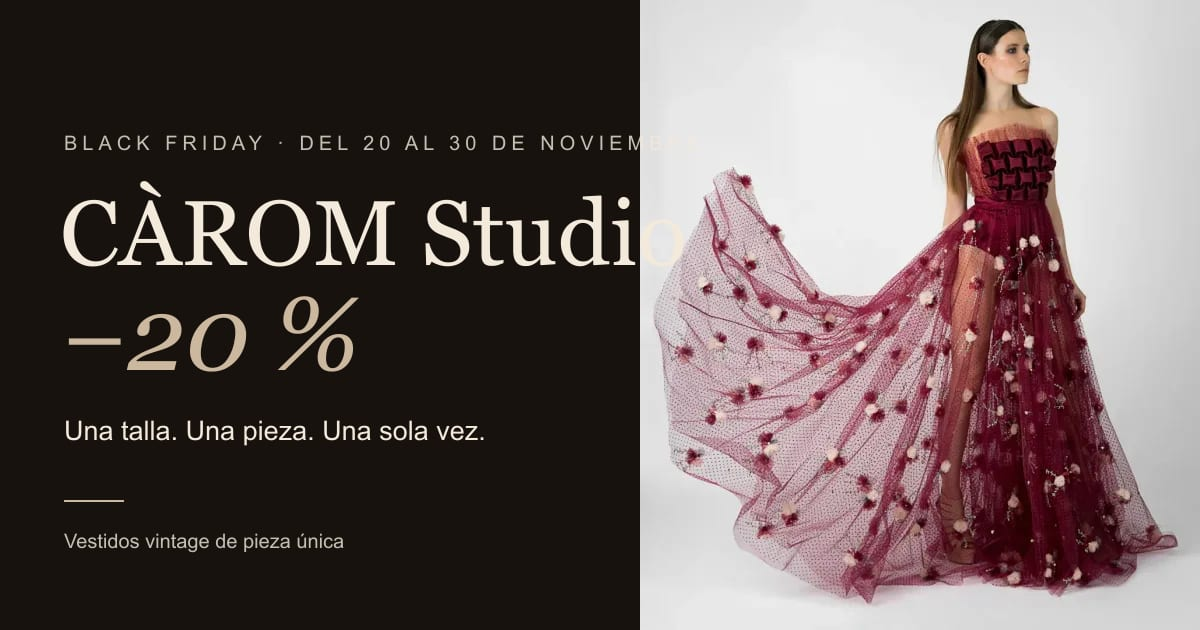
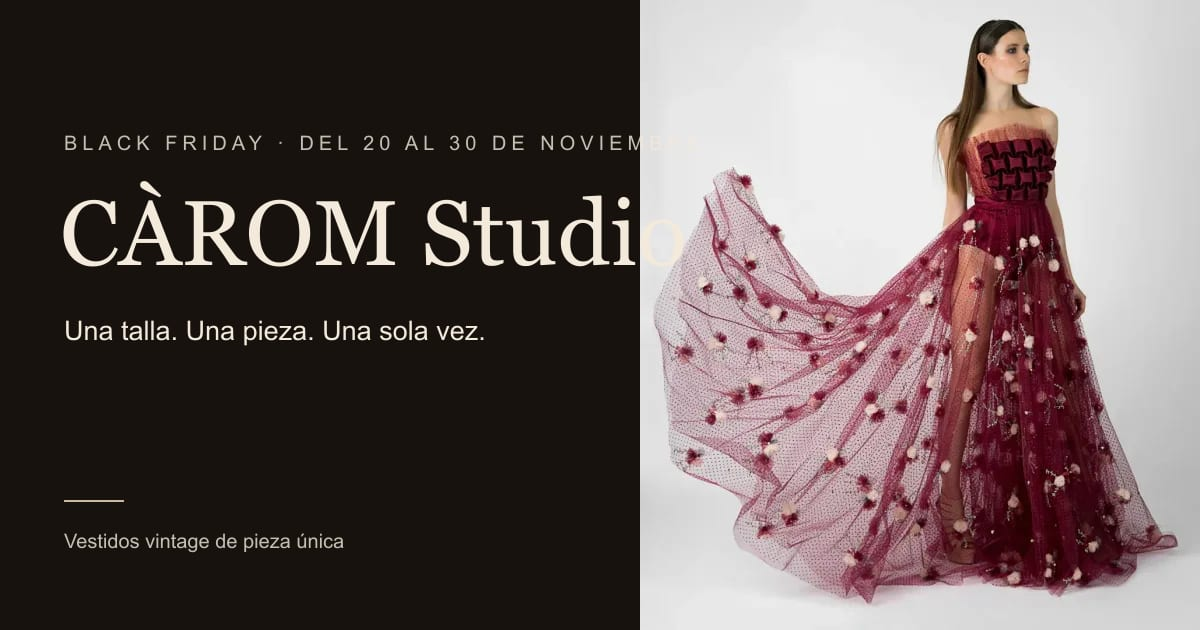
Quita el -20 % hasta saber el descuento real

Changed region(s): [[0.0308, 0.4524, 0.4008, 0.6032], [0.0617, 0.6635, 0.4008, 0.7238]]

diff --git a/src/data/blackfriday.ts b/src/data/blackfriday.ts
@@ -4,10 +4,10 @@
 import data from './vestidos.json';
 
 export const blackFriday = {
-  // PROVISIONAL: pon false cuando acabe la promo (quita los precios tachados y los textos de Black Friday)
+  // PROVISIONAL: pon false cuando acabe la promo
   activo: true,
-  // PROVISIONAL: descuento en %, igual para todas las piezas
-  descuento: 20,
+  // PROVISIONAL: descuento en %. null = aún no hay % (solo se muestra el precio normal)
+  descuento: null as number | null,
   // PROVISIONAL: fechas de inicio y fin (hora peninsular)
   inicio: '2026-11-23T00:00:00+01:00',
   fin: '2026-11-30T23:59:59+01:00',
@@ -20,8 +20,12 @@ export type Vestido = Omit<(typeof data.vestidos)[number], 'estado'> & { estado:
 
 export const vestidos = data.vestidos as Vestido[];
 
+export function hayDescuento() {
+  return blackFriday.activo && typeof blackFriday.descuento === 'number' && blackFriday.descuento > 0;
+}
+
 export function precioFinal(precio: number) {
-  return blackFriday.activo ? Math.round(precio * (100 - blackFriday.descuento)) / 100 : precio;
+  return hayDescuento() ? Math.round(precio * (100 - blackFriday.descuento!)) / 100 : precio;
 }
 
 export function formatoPrecio(precio: number) {
